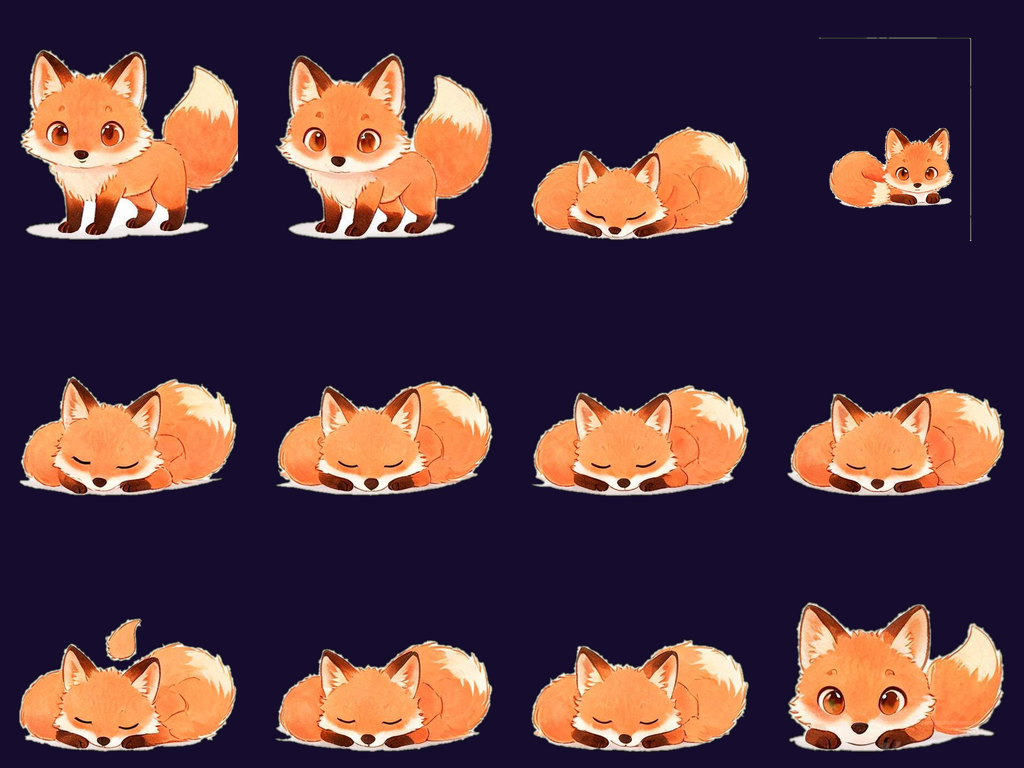
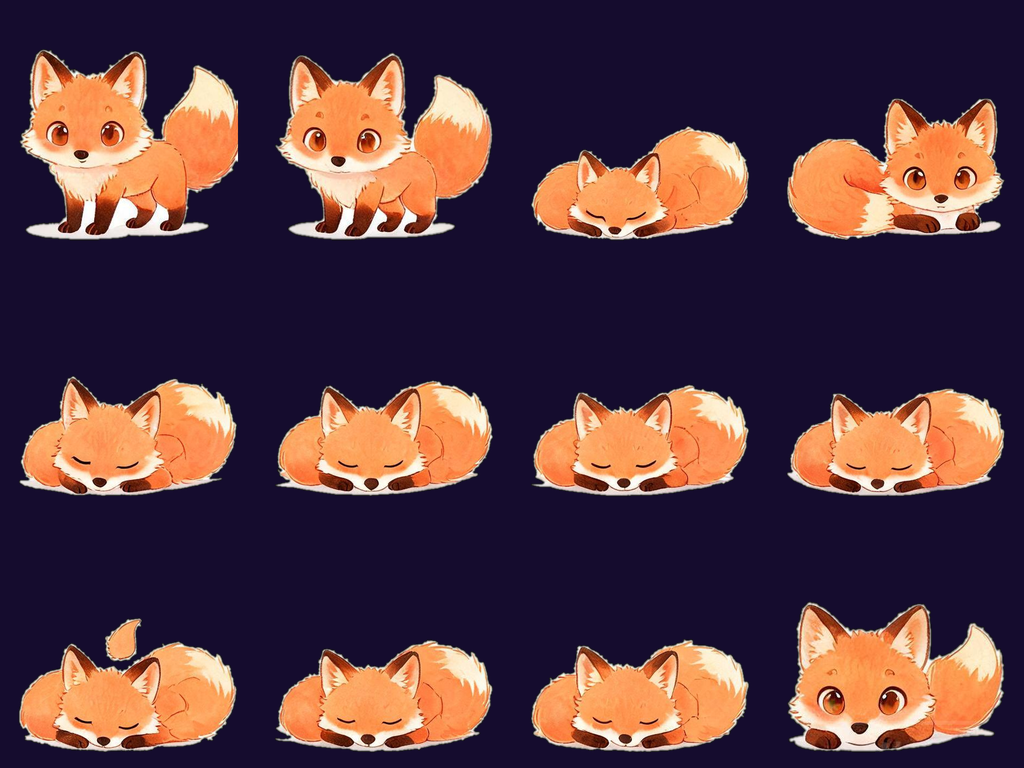
[checkpoint] petgen后处理加线条瑕疵清除(低填充率长线+实心细条双规则,主角永不删); 实验_smooth: A呼吸式排帧12f@140ms vs B双表24帧i2i链@90ms(角色一致性极佳,角标会被i2i复制); B原始表+QC留存

Changed region(s): [[0.75, 0.125, 1.0, 0.3125]]

diff --git a/scripts/experiment_smooth_idle.py b/scripts/experiment_smooth_idle.py
@@ -1,0 +1,115 @@
+"""idle 流畅度对比实验 (2026-09): 节奏排帧 vs 双表24帧i2i链
+
+产物 (backend/static/pets/_smooth/):
+  A_paced.gif   —— 12帧不变, 呼吸式排帧(安静停留+偶尔动作) @140ms, 零生成成本
+  B_sheet1.jpg / B_sheet2.jpg —— 双表: 第2表以第1表(生成返回的TOS URL)为参考图 i2i
+  B_24f.gif     —— 拼接 24 帧 @90ms
+  B_grid1.png / B_grid2.png —— 两张表的帧网格目检图
+  report.json   —— 两表 QC
+
+用法: python scripts/experiment_smooth_idle.py
+"""
+import json
+import sys
+from pathlib import Path
+
+sys.path.insert(0, str(Path(__file__).resolve().parents[1] / "backend"))
+
+from PIL import Image  # noqa: E402
+
+from app.services.petgen.pipeline import (  # noqa: E402
+    ArkImageClient,
+    build_prompt,
+    download,
+    process_sheet,
+)
+from app.services.petgen.profiles import STYLE_PROFILES, ActionTemplate  # noqa: E402
+
+APPEARANCE = "一只可爱的暖橙色系的小狐狸, 大眼睛, 蓬松尾巴"
+STYLE = STYLE_PROFILES["illustration"]
+BG = (21, 12, 46)
+
+# A: 呼吸式排帧 —— 安静(0重复) → 眨眼(1-7) → 安静 → 竖耳歪头(8-10) → 回正
+A_SEQUENCE = (0, 0, 0, 0, 0, 0, 1, 2, 3, 4, 5, 6, 7, 0, 0, 0, 0, 8, 9, 10, 11, 0, 0, 0)
+A_MS = 140
+
+# B: 双表 24 帧。表1=眨眼+竖耳, 表2(i2i参考表1)=更细腻的头部摆动+尾巴轻摆
+B1 = ActionTemplate(
+    key="idleA", frame_count=12, grid_cols=4, grid_rows=3,
+    frame_specs=(
+        "睁眼自然微笑", "睁眼放松", "眼睛微眯", "眼睛半闭",
+        "闭眼微笑", "闭眼微笑保持", "眼睛半闭", "眼睛微眯",
+        "睁眼自然微笑", "双耳微微竖起", "双耳竖起保持", "睁眼自然微笑与第1帧相同",
+    ),
+    sequence=tuple(range(12)), frame_ms=90,
+)
+B2 = ActionTemplate(
+    key="idleB", frame_count=12, grid_cols=4, grid_rows=3,
+    frame_specs=(
+        "睁眼自然微笑头居中", "头微微向左转", "头向左转保持", "头回中",
+        "睁眼自然微笑", "头微微向右转", "头向右转保持", "头回中",
+        "睁眼自然微笑", "蓬松尾巴轻轻向左摆", "蓬松尾巴轻轻向右摆", "睁眼自然微笑与第1帧相同",
+    ),
+    sequence=tuple(range(12)), frame_ms=90,
+)
+# i2i 参考提示: 强调与参考图同一角色同一布局
+B2_REFERENCE_CLAUSE = "与参考图片中是完全相同的角色、相同的画风、相同的12格精灵表布局, "
+
+OUT = Path(__file__).resolve().parents[1] / "backend" / "static" / "pets" / "_smooth"
+PET28 = Path(__file__).resolve().parents[1] / "backend" / "static" / "pets" / "28"
+
+
+def save_gif(frames: list[Image.Image], path: Path, ms: int) -> None:
+    rgb = []
+    for f in frames:
+        bg = Image.new("RGB", f.size, BG)
+        bg.paste(f, (0, 0), f)
+        rgb.append(bg)
+    rgb[0].save(path, save_all=True, append_images=rgb[1:], duration=ms, loop=0)
+
+
+def save_grid(frames: list[Image.Image], path: Path, cols: int = 4) -> None:
+    rows = (len(frames) + cols - 1) // cols
+    grid = Image.new("RGB", (cols * 256, rows * 256), BG)
+    for i, f in enumerate(frames):
+        thumb = f.resize((256, 256), Image.LANCZOS)
+        cell = Image.new("RGB", (256, 256), BG)
+        cell.paste(thumb, (0, 0), thumb)
+        grid.paste(cell, ((i % cols) * 256, (i // cols) * 256))
+    grid.save(path)
+
+
+def main() -> None:
+    OUT.mkdir(parents=True, exist_ok=True)
+
+    # ---- A: 纯节奏版 (用 pet28 现有 idle 帧, 零生成成本) ----
+    idle_frames = [Image.open(PET28 / "frames" / f"idle_{i}.png").convert("RGBA") for i in range(12)]
+    save_gif([idle_frames[i] for i in A_SEQUENCE], OUT / "A_paced.gif", A_MS)
+    print("A_paced.gif 完成 (12帧呼吸式排帧@140ms, 循环3.4s)", flush=True)
+
+    # ---- B: 双表 24 帧 i2i 链 ----
+    client = ArkImageClient()
+    print("B 表1 生成中...", flush=True)
+    url1 = client.generate_image(build_prompt(B1, APPEARANCE, STYLE))
+    download(url1, OUT / "B_sheet1.jpg")
+    frames1, qc1 = process_sheet(OUT / "B_sheet1.jpg", B1, STYLE)
+    save_grid(frames1, OUT / "B_grid1.png")
+    print(f"B 表1 QC passed={qc1['passed']}", flush=True)
+
+    print("B 表2 生成中 (i2i 参考表1)...", flush=True)
+    prompt2 = B2_REFERENCE_CLAUSE + build_prompt(B2, APPEARANCE, STYLE)
+    url2 = client.generate_image(prompt2, reference_url=url1)
+    download(url2, OUT / "B_sheet2.jpg")
+    frames2, qc2 = process_sheet(OUT / "B_sheet2.jpg", B2, STYLE)
+    save_grid(frames2, OUT / "B_grid2.png")
+    print(f"B 表2 QC passed={qc2['passed']}", flush=True)
+
+    save_gif(frames1 + frames2, OUT / "B_24f.gif", 90)
+    (OUT / "report.json").write_text(json.dumps(
+        {"sheet1": qc1, "sheet2": qc2}, ensure_ascii=False, indent=2), encoding="utf-8")
+    print("B_24f.gif 完成 (24帧@90ms, 循环2.2s)")
+    print(f"\n产物目录: {OUT}")
+
+
+if __name__ == "__main__":
+    main()

diff --git a/scripts/_rebuild_b_preview.py b/scripts/_rebuild_b_preview.py
@@ -1,0 +1,29 @@
+"""重建实验 B 的 24 帧 GIF: 用最新后处理(线条清除)离线重切 B 双表"""
+import sys
+from pathlib import Path
+
+_ROOT = Path(__file__).resolve().parents[1]
+sys.path.insert(0, str(_ROOT / "backend"))
+sys.path.insert(0, str(_ROOT))  # 让 scripts.experiment_smooth_idle 可导入
+
+from PIL import Image  # noqa: E402
+from app.services.petgen.pipeline import process_sheet  # noqa: E402
+from app.services.petgen.profiles import STYLE_PROFILES  # noqa: E402
+from scripts.experiment_smooth_idle import B1, B2, save_gif, save_grid  # noqa: E402
+
+OUT = Path(__file__).resolve().parents[1] / "backend" / "static" / "pets" / "_smooth"
+STYLE = STYLE_PROFILES["illustration"]
+
+frames1, qc1 = process_sheet(OUT / "B_sheet1.jpg", B1, STYLE)
+frames2, qc2 = process_sheet(OUT / "B_sheet2.jpg", B2, STYLE)
+save_grid(frames1, OUT / "B_grid1.png")
+save_grid(frames2, OUT / "B_grid2.png")
+save_gif(frames1 + frames2, OUT / "B_24f.gif", 90)
+print(f"sheet1 passed={qc1['passed']}, sheet2 passed={qc2['passed']}, B_24f.gif 已重建")
+
+# A 的呼吸式排帧 GIF 也用清线后的 idle 帧重建
+from scripts.experiment_smooth_idle import A_MS, A_SEQUENCE, PET28  # noqa: E402
+
+idle_frames = [Image.open(PET28 / "frames" / f"idle_{i}.png").convert("RGBA") for i in range(12)]
+save_gif([idle_frames[i] for i in A_SEQUENCE], OUT / "A_paced.gif", A_MS)
+print("A_paced.gif 已重建")

diff --git a/backend/app/services/petgen/pipeline.py b/backend/app/services/petgen/pipeline.py
@@ -135,6 +135,24 @@ def _cutout_cell(cell: Image.Image, profile: StyleProfile) -> np.ndarray:
             if sizes[i] > sizes.max() * 0.02:
                 keep |= comp == (i + 1)
         fg = keep
+    # 线条瑕疵清除 (2026-09 实测: 模型爱在格内画格线角标, 残片与角色不相连,
+    # 且拐角相连成 L 形后 bbox 很宽——按形状判: 跨度 ≥150px 而填充率 < 4% 即线条/细框)
+    comp2, nc2 = ndimage.label(fg)
+    if nc2 > 1:
+        areas2 = ndimage.sum(fg, comp2, range(1, nc2 + 1))
+        main_label = int(np.argmax(areas2)) + 1
+        for i in range(1, nc2 + 1):
+            if i == main_label:
+                continue  # 主角永不删
+            ys, xs = np.where(comp2 == i)
+            if len(xs) == 0:
+                continue
+            bh = int(ys.max()) - int(ys.min()) + 1
+            bw = int(xs.max()) - int(xs.min()) + 1
+            fill = len(xs) / (bh * bw)
+            # 低填充率长线(L形格线框) 或 实心细条(断线残片)
+            if (max(bh, bw) >= 150 and fill < 0.04) or (min(bh, bw) <= 6 and max(bh, bw) >= 60):
+                fg[comp2 == i] = False
     # ② 填闭合空洞
     fg = ndimage.binary_fill_holes(fg)
     alpha = (fg * 255).astype(np.uint8)
